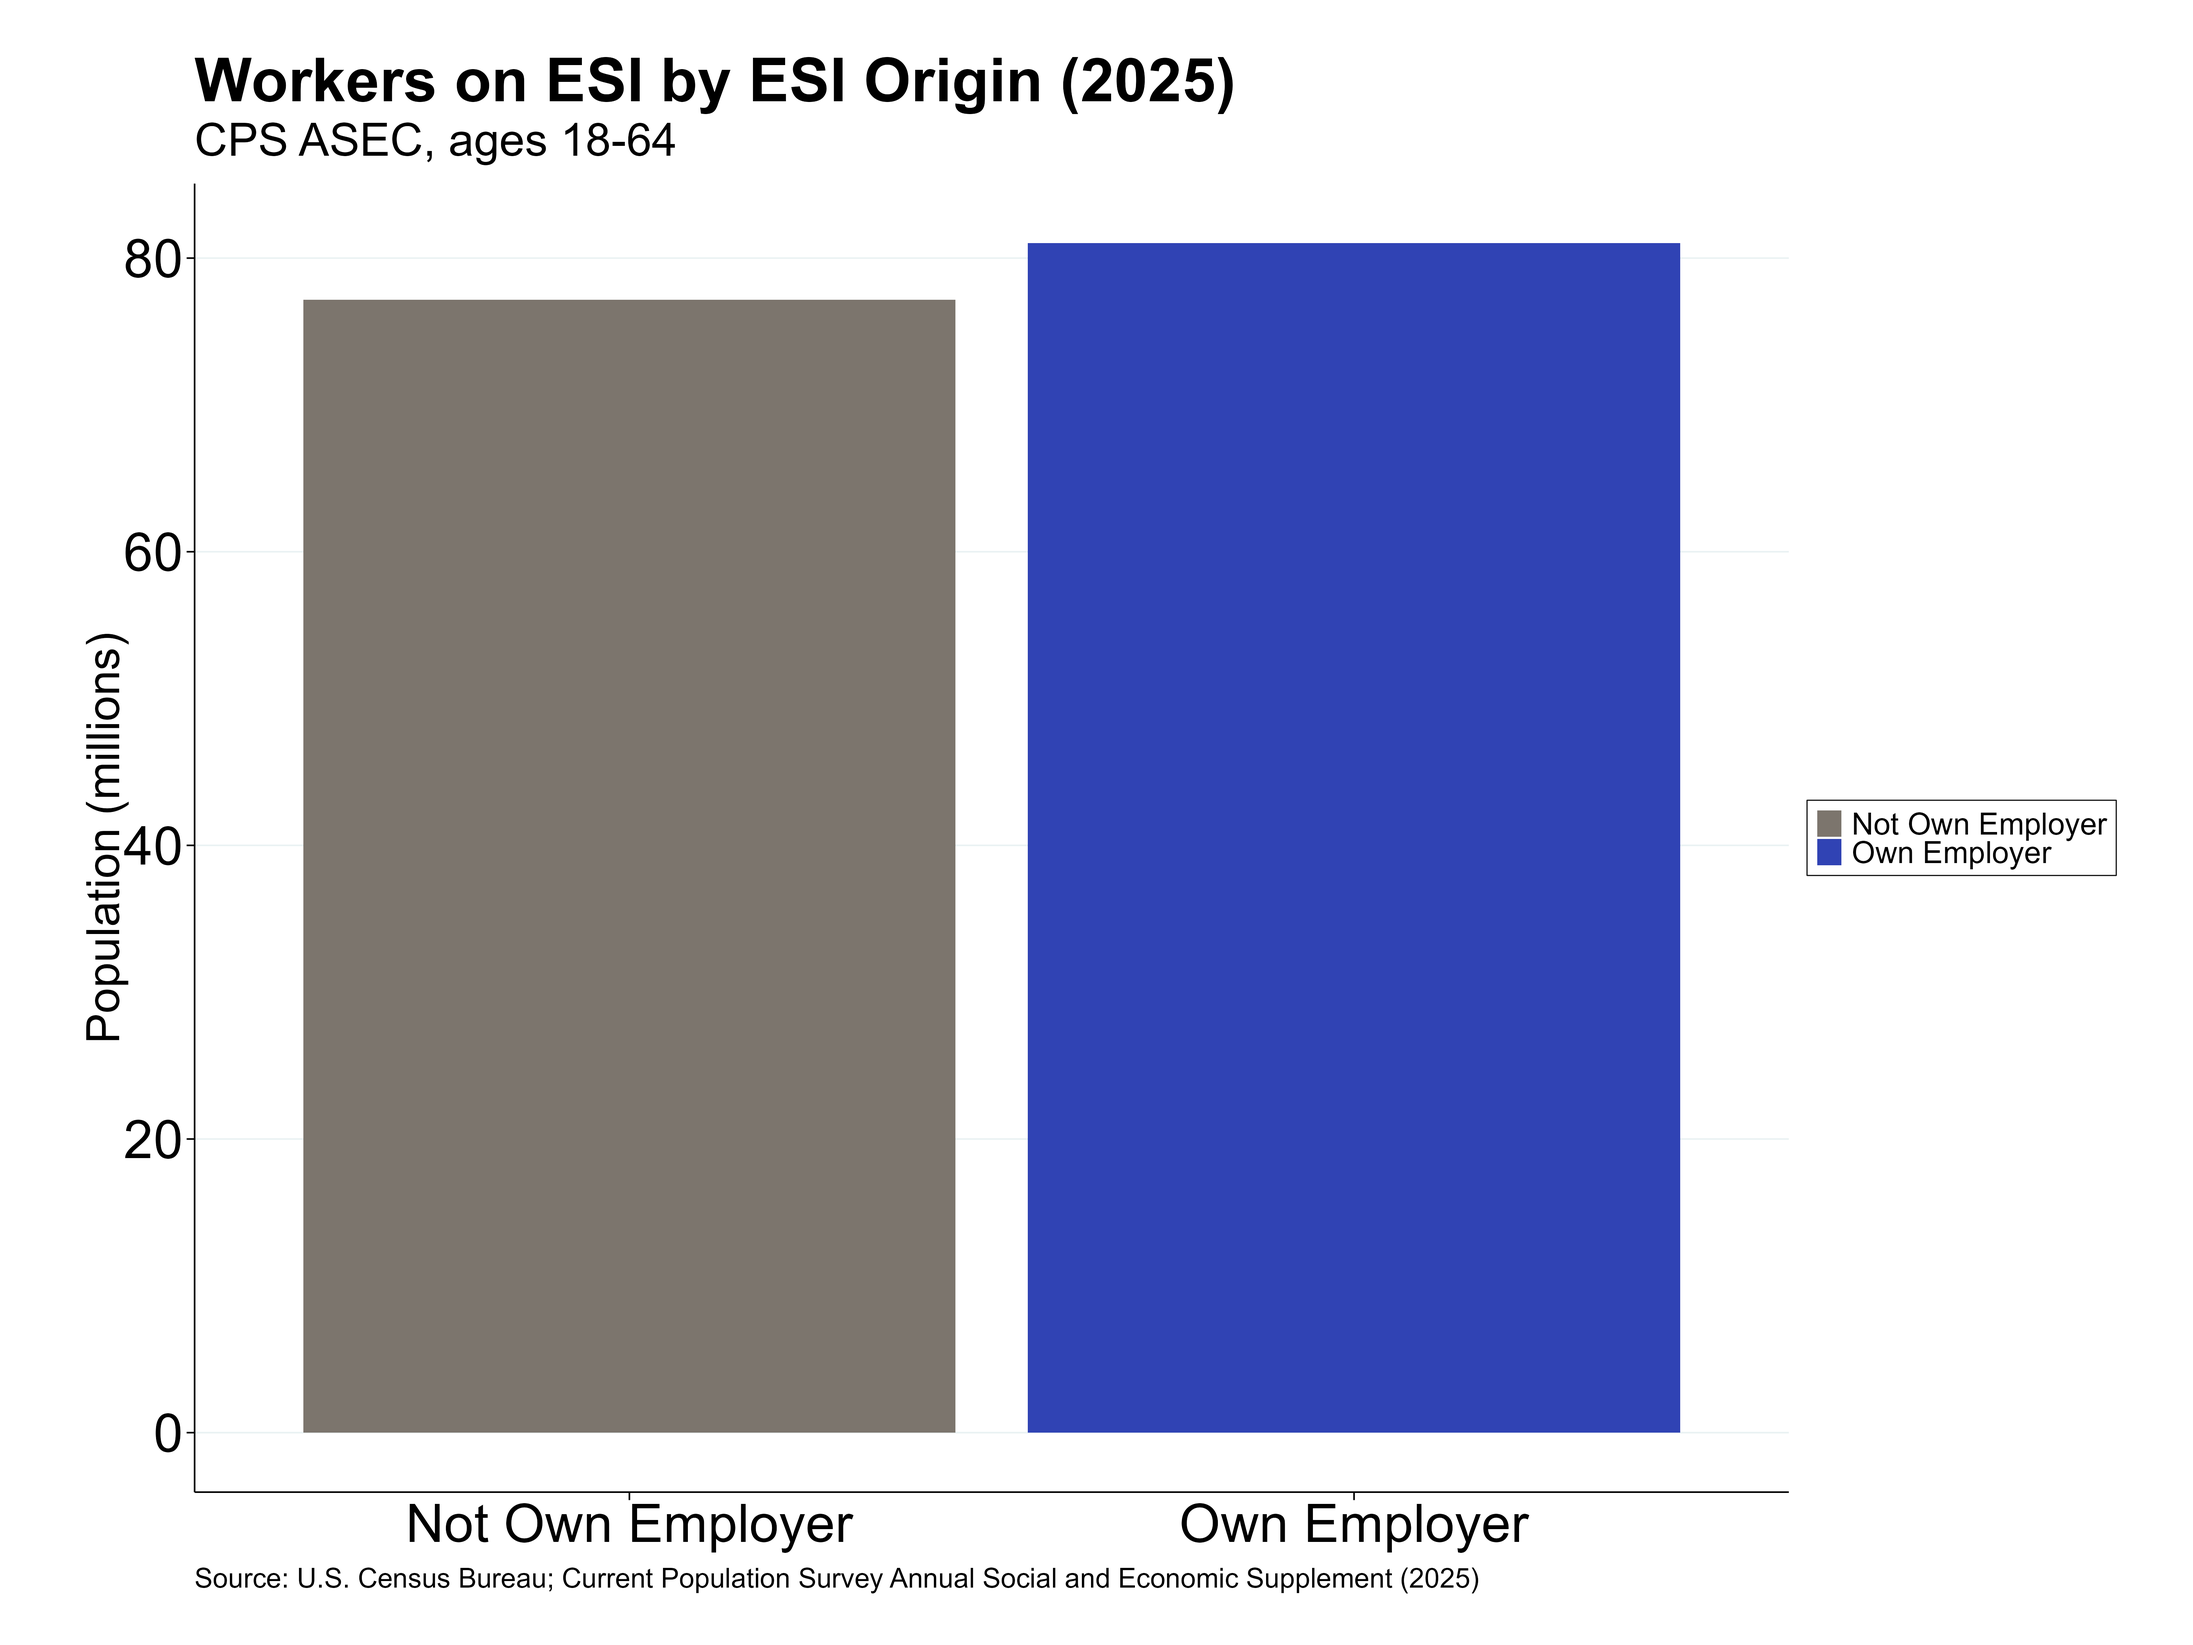
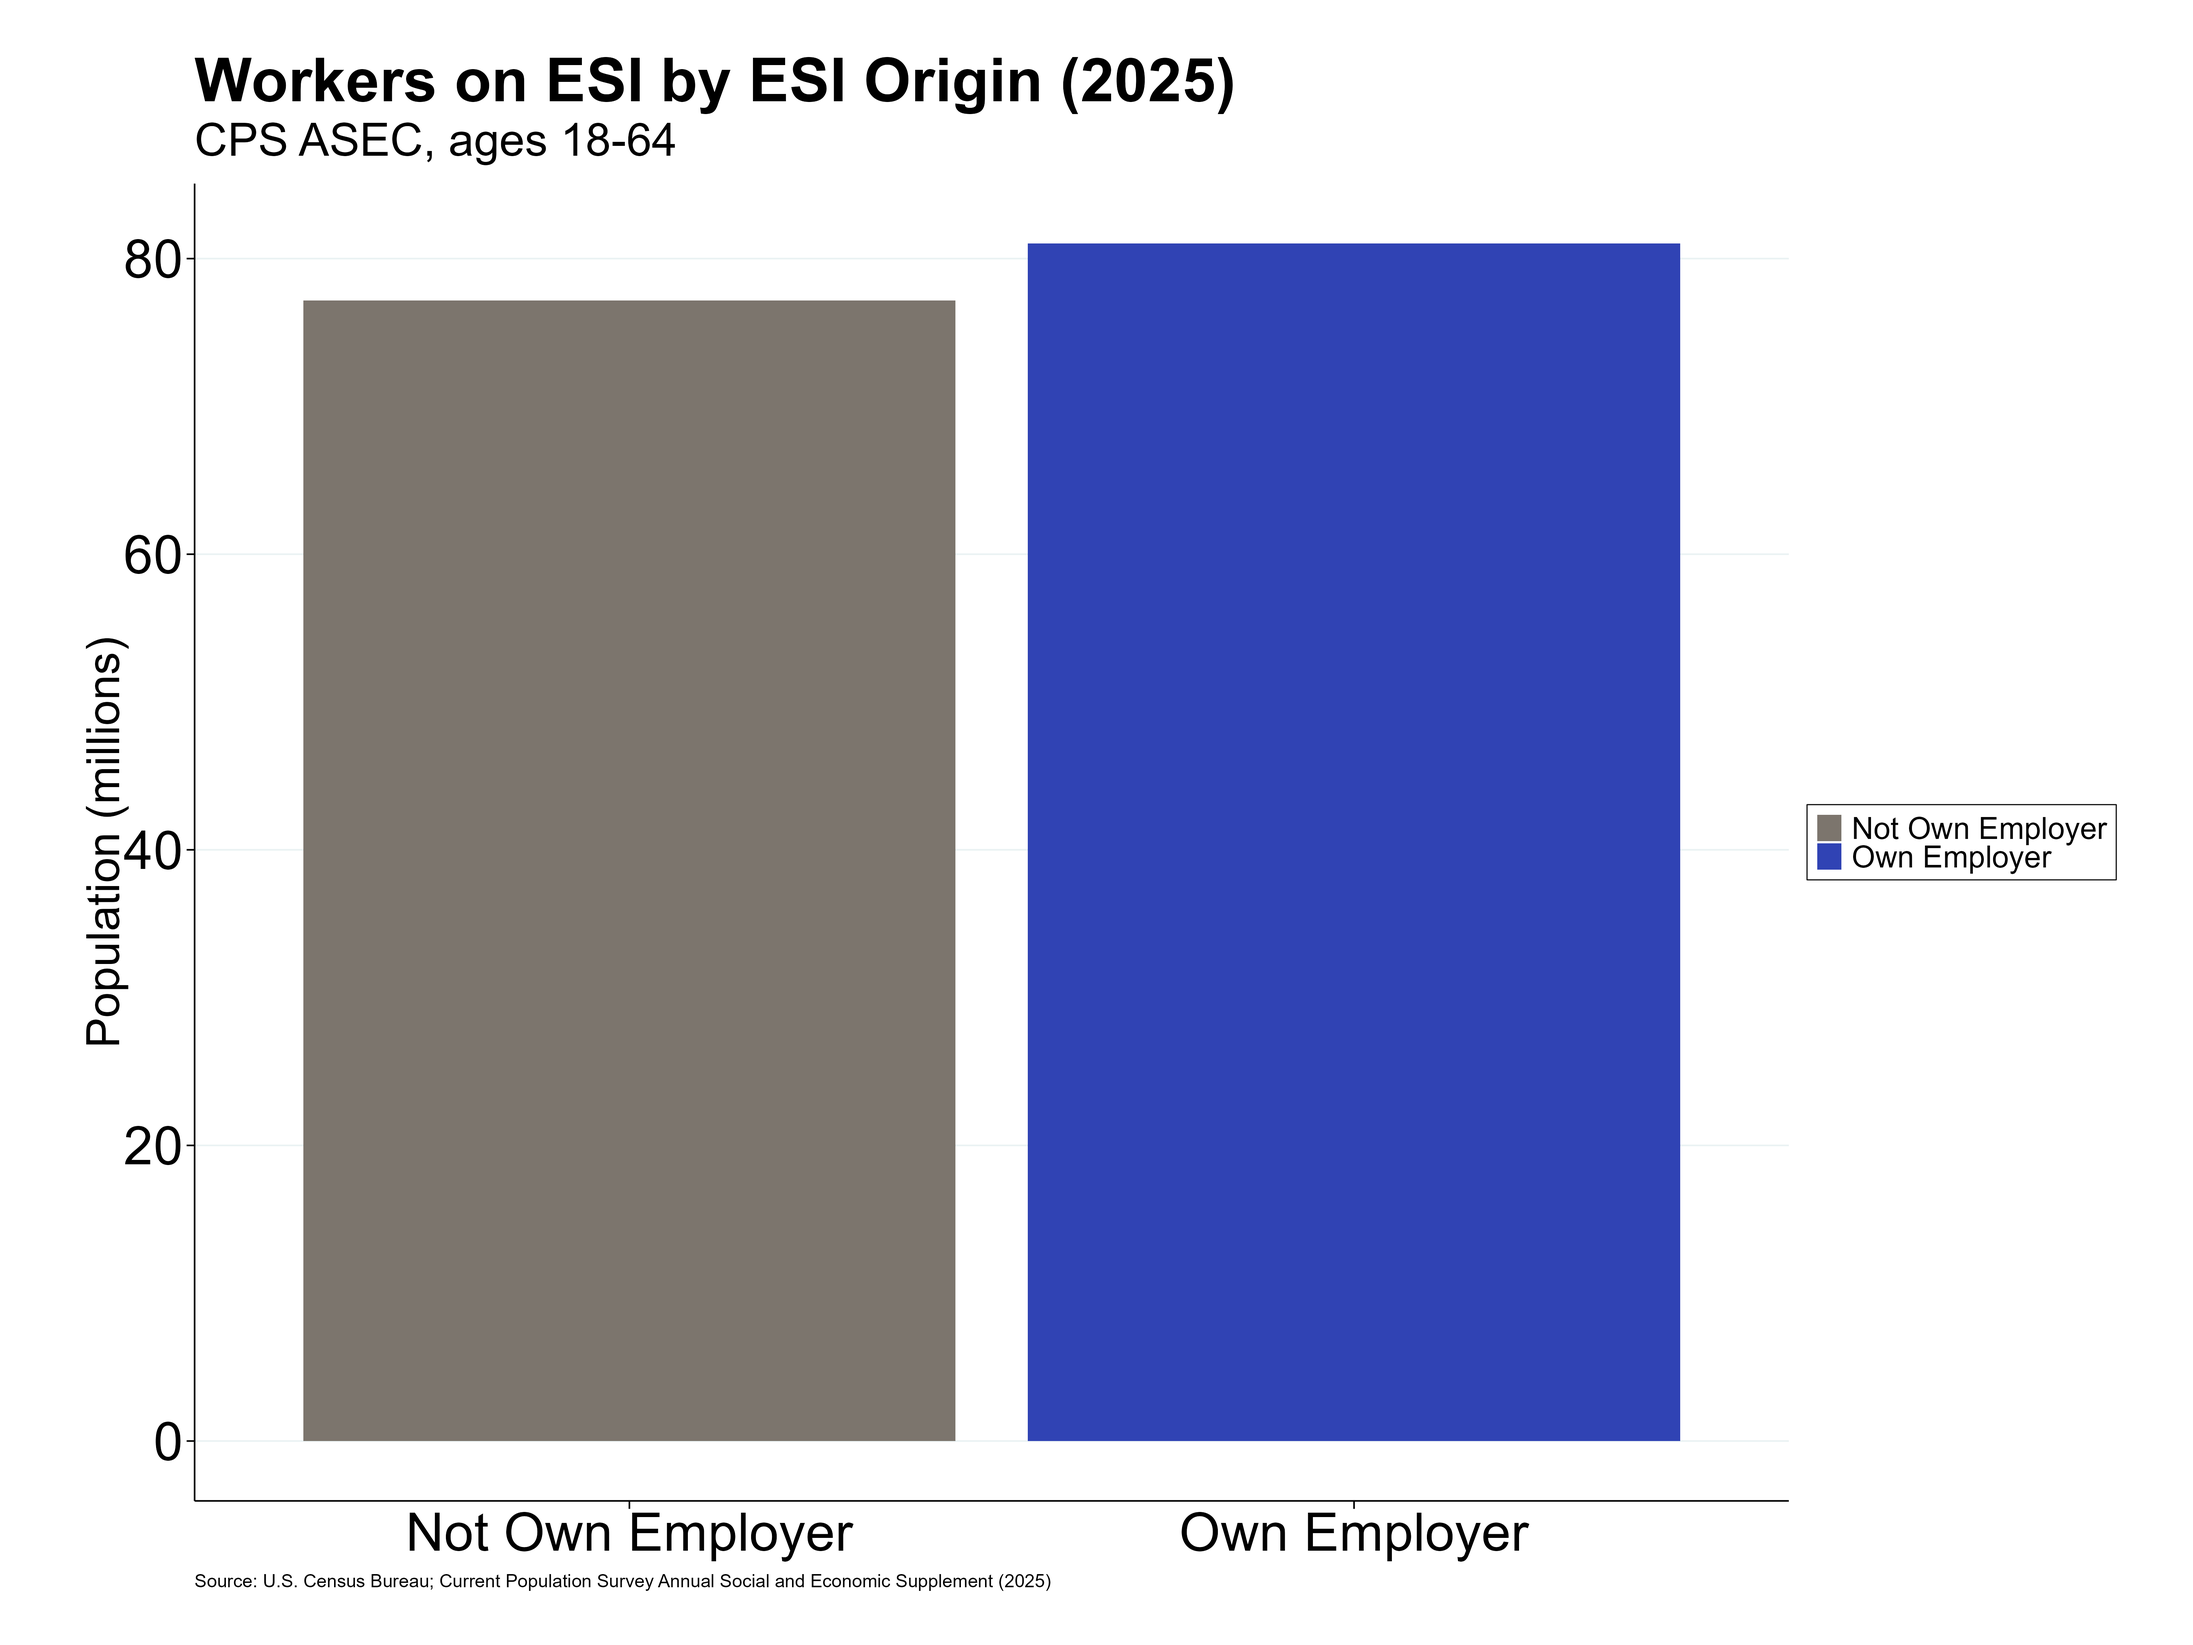
afgsrtghjnbfdvs

diff --git a/readme.MD b/readme.MD
@@ -1,12 +1,20 @@
 ## Current Population Survey - Annual Social and Economic Supplements (2025) 
 https://www.census.gov/data/datasets/time-series/demo/cps/cps-asec.html 
+
 ### How many non-elderly workers (aged 18-64) are on ESI.
 - 110,681,349 adult workers are on ESI
 - 15,446,728 adult non-workers are on ESI
 - 39,520,250 children are on ESI
-![U.S. Median Household Income vs. GDP (indexed)](results/ESI_plot.png)
+
+<img src="results/ESI_plot.png" width="600">
 
 ### How many non-elderly workers (aged 18-64) are on ESI from their own employer.
+- 81,023,761 working adults are on ESI from their own employer
+
+<img src="results/ESI_origin.png" width="600">
+
 ### How many non-elderly workers (aged 18-64) are on ESI from another family member (family plan).
+
 ### How many non-elderly workers (aged 18-64) were eligible for ESI and offered ESI from their employer but did not take it. (We call this group “decliners”)
+
 ### And crucially, how many “decliners” are on ESI from another family member.
